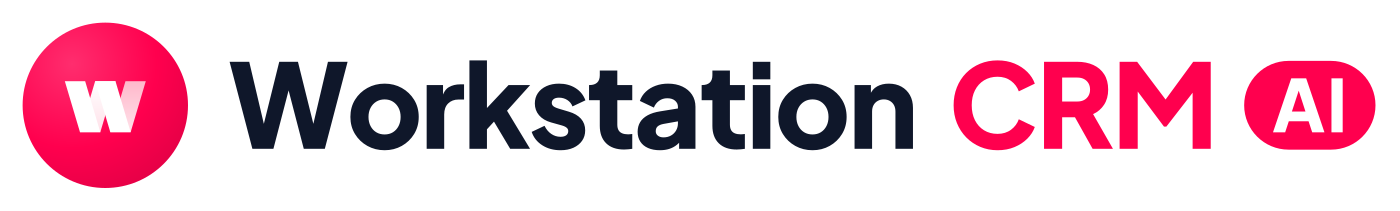
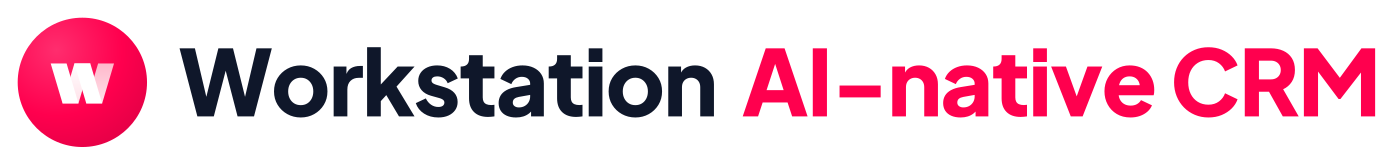
Rename to Workstation AI-native CRM
The in-app name, sign-in screen, report letterhead and sign-in emails now say "Workstation
AI-native CRM" (non-breaking hyphen in the app, so it never breaks after "AI-"). The home-screen
name stays "Workstation CRM" (new BRAND_DISPLAY_NAME; iOS shows about 12 characters). The
wordmark and lockup read "Workstation AI-native CRM" ("AI-native CRM" in the primary); the AI
badge is gone. Brand guide updated.

Changed region(s): [[0.0, 0.0909, 0.9829, 0.9091]]

diff --git a/WSLCRM/App/Brand.swift b/WSLCRM/App/Brand.swift
@@ -2,7 +2,7 @@ import Foundation
 
 /// White-label identity for this build, from `BRAND_*` build settings through Info.plist.
 ///
-/// Config/Brand-Default.xcconfig gives the house brand ("Workstation CRM" and its mark). A brand
+/// Config/Brand-Default.xcconfig gives the house brand ("Workstation AI-native CRM" and its mark). A brand
 /// xcconfig such as Config/Brand-DBS.xcconfig swaps in a customer's name, mark, app icon and the
 /// company details printed on report PDFs, without touching code.
 struct Brand: Sendable, Equatable {
@@ -12,8 +12,6 @@ struct Brand: Sendable, Equatable {
     var company: ReportCompany
     /// The accent colour set; `<name>-Fill` and `<name>-Text` sit beside it (Tone.brand).
     var accentColorName: String = "AccentColor"
-    /// A badge after the name ("AI" for Workstation CRM (AI)); white-label brands leave it out.
-    var edition: String?
 
     static let current = Brand.fromBundle()
 
@@ -29,7 +27,7 @@ struct Brand: Sendable, Equatable {
             // An unexpanded "$(BRAND_X)" means the setting was never defined for this build.
             return trimmed.isEmpty || trimmed.hasPrefix("$(") ? nil : trimmed
         }
-        let name = value("WSLBrandName") ?? "Workstation CRM"
+        let name = value("WSLBrandName") ?? "Workstation AI‑native CRM"
         return Brand(
             name: name,
             markImageName: value("WSLBrandMark"),
@@ -42,8 +40,7 @@ struct Brand: Sendable, Equatable {
                 email: value("WSLBrandEmail"),
                 companyNumber: value("WSLBrandCompanyNumber"),
                 vatNumber: value("WSLBrandVATNumber")),
-            accentColorName: value("WSLBrandAccentColor") ?? "AccentColor",
-            edition: value("WSLBrandEdition"))
+            accentColorName: value("WSLBrandAccentColor") ?? "AccentColor")
     }
 }
 

diff --git a/docs/brand/index.html b/docs/brand/index.html
@@ -3,7 +3,7 @@
 <head>
 <meta charset="utf-8">
 <meta name="viewport" content="width=device-width, initial-scale=1">
-<title>Workstation CRM Brand</title>
+<title>Workstation AI-native CRM Brand</title>
 <link rel="icon" href="logo-glyph.svg">
 <style>
   @font-face { font-family: "Plus Jakarta Sans"; src: url("fonts/PlusJakartaSans.ttf") format("truetype"); font-weight: 200 800; }
@@ -75,11 +75,11 @@
 <header class="hero">
   <div class="inner">
     <div>
-      <img class="lockup" src="lockup-on-dark.svg" alt="Workstation CRM">
+      <img class="lockup" src="lockup-on-dark.svg" alt="Workstation AI-native CRM">
       <h1>Work, <span>done.</span></h1>
       <p>Jobs, visits, boards, timesheets and property deals, from the office to the van. The phone side of OpsAPI.</p>
     </div>
-    <img class="icon" src="png/icon-1024.png" alt="Workstation CRM app icon">
+    <img class="icon" src="png/icon-1024.png" alt="Workstation AI-native CRM app icon">
   </div>
 </header>
 <main>
@@ -155,7 +155,7 @@
 <h2>Don't</h2>
 <p class="lead">Recolour the route · flip or rotate it · move the start dot · outline it or add effects · stretch the lockup · set the full-colour logo on busy photos (use the mono mark).</p>
 
-<footer>Workstation CRM brand · every file is built by <code>tools/build-brand.py</code> · Plus Jakarta Sans under the SIL Open Font License · see <code>BRAND.md</code></footer>
+<footer>Workstation AI-native CRM brand · every file is built by <code>tools/build-brand.py</code> · Plus Jakarta Sans under the SIL Open Font License · see <code>BRAND.md</code></footer>
 </main>
 </body>
 </html>

diff --git a/WSLCRM/Features/Auth/LoginView.swift b/WSLCRM/Features/Auth/LoginView.swift
@@ -83,24 +83,10 @@ struct LoginView: View {
         HStack(alignment: .top) {
             VStack(alignment: .leading, spacing: 8) {
                 BrandMark(size: 88)
-                HStack(alignment: .firstTextBaseline, spacing: 10) {
-                    Text(Brand.current.name)
-                        .font(.largeTitle.bold())
-                        .lineLimit(1)
-                        .minimumScaleFactor(0.6)
-                    if let edition = Brand.current.edition {
-                        Text(edition)
-                            .font(.title2.weight(.heavy))
-                            .padding(.horizontal, 12).padding(.vertical, 3)
-                            .foregroundStyle(.white)
-                            .background(Tone.brand.solidColor, in: Capsule())
-                            .fixedSize()
-                            .accessibilityHidden(true)
-                    }
-                }
-                .accessibilityElement(children: .combine)
-                .accessibilityLabel([Brand.current.name, Brand.current.edition].compactMap { $0 }.joined(separator: " "))
-                .accessibilityIdentifier("login.brandName")
+                Text(Brand.current.name)
+                    .font(.largeTitle.bold())
+                    .fixedSize(horizontal: false, vertical: true)
+                    .accessibilityIdentifier("login.brandName")
                 Text("Sign in to your \(Brand.current.name) account")
                     .font(.title3)
                     .foregroundStyle(.secondaryText)

diff --git a/WSLCRMTests/SimproDemoTests.swift b/WSLCRMTests/SimproDemoTests.swift
@@ -158,7 +158,7 @@ final class SimproDemoTests: XCTestCase {
     func testBrandFallsBackToHouseBrandForEmptyOrUnexpandedValues() {
         let info: [String: String] = ["WSLBrandName": "$(BRAND_NAME)", "WSLBrandMark": "  "]
         let brand = Brand.from(info: { info[$0] })
-        XCTAssertEqual(brand.name, "Workstation CRM")
+        XCTAssertEqual(brand.name, "Workstation AI‑native CRM")
         XCTAssertNil(brand.markImageName)
         XCTAssertEqual(brand.accentColorName, "AccentColor")
         XCTAssertEqual(brand.company.legalFooter, "")

diff --git a/WSLCRM/Core/Auth/AuthAPI.swift b/WSLCRM/Core/Auth/AuthAPI.swift
@@ -4,7 +4,7 @@ import Foundation
 struct AuthAPI: Sendable {
     let client: APIClient
     /// Brands the OTP email (the server default is another product's name).
-    static let appName = "Workstation CRM"
+    static let appName = "Workstation AI-native CRM"
 
     /// Step 1. Form-encoded — the server does not parse JSON on this route.
     func login(identifier: String, password: String) async throws -> LoginResponse {

diff --git a/WSLCRM/DesignSystem/Components.swift b/WSLCRM/DesignSystem/Components.swift
@@ -4,7 +4,7 @@ import UIKit
 // MARK: - Tones
 
 /// Semantic colours. Every use is paired with an icon and text, never colour alone.
-/// `brand` is the build's own accent (Workstation CRM pink, DBS blue) for primary actions.
+/// `brand` is the build's own accent (Workstation pink, DBS blue) for primary actions.
 enum Tone: Sendable {
     case brand, neutral, info, progress, success, warning, danger
 

diff --git a/docs/brand/tools/build-brand.py b/docs/brand/tools/build-brand.py
@@ -1,9 +1,9 @@
 #!/usr/bin/env python3
 # Usage: python3 docs/brand/tools/build-brand.py docs/brand   (needs fonttools; rsvg-convert for PNGs)
-"""Builds every Workstation CRM (AI) logo file from one definition of the mark.
+"""Builds every Workstation AI-native CRM logo file from one definition of the mark.
 
 The mark is the Workstation icon: a white "W" folded from one ribbon on a #FF004E disc (the
-OpsAPI primary). The wordmark is "Workstation CRM" with an "AI" badge.
+OpsAPI primary). The wordmark is "Workstation AI-native CRM".
 
 Writes the SVGs into the brand folder, PNG renders into png/, the Icon Composer layers into
 icon-layers/, and (with --app) the iOS asset catalog images.
@@ -148,38 +148,20 @@ def text_path(text, size, x, baseline, tracking=-0.02):
 CAP = font["OS/2"].sCapHeight / upm
 
 
-NAME, PRODUCT = "Workstation", "CRM"
+NAME, PRODUCT = "Workstation", "AI-native CRM"
 
 
 def name_paths(size, x, baseline, color):
-    """"Workstation" in the text colour, "CRM" in the primary, one word-space apart."""
+    """"Workstation" in the text colour, "AI-native CRM" in the primary, one word-space apart."""
     d1, w1 = text_path(NAME, size, x, baseline)
     gap = size * 0.26
     d2, w2 = text_path(PRODUCT, size, x + w1 + gap, baseline)
     return f'<path fill="{color}" d="{d1}"/><path fill="{PRIMARY}" d="{d2}"/>', w1 + gap + w2
 
 
-def ai_badge(size, x, baseline):
-    """The "AI" badge: a primary pill with white letters, sitting on the cap height."""
-    cap = CAP * size
-    letters, lw = text_path("AI", size * 0.62, 0, 0, tracking=0.02)
-    pad_x, h = size * 0.24, cap * 1.02
-    w = lw + 2 * pad_x
-    top = baseline - cap - (h - cap) / 2
-    ty = top + h / 2 + CAP * size * 0.62 / 2
-    pill = f'<rect x="{x:.1f}" y="{top:.1f}" width="{w:.1f}" height="{h:.1f}" rx="{h / 2:.1f}" fill="{PRIMARY}"/>'
-    return pill + f'<path fill="#FFFFFF" transform="translate({x + pad_x:.1f} {ty:.1f})" d="{letters}"/>', w
-
-
-def name_with_ai(size, x, baseline, color):
-    paths, width = name_paths(size, x, baseline, color)
-    badge, bw = ai_badge(size, x + width + size * 0.22, baseline)
-    return paths + badge, width + size * 0.22 + bw
-
-
 def wordmark(color, name, title):
     size = 160
-    paths, width = name_with_ai(size, 24, 24 + CAP * size, color)
+    paths, width = name_paths(size, 24, 24 + CAP * size, color)
     w, h = int(width + 48), int(CAP * size * 1.3 + 48)
     write(name, svg(title, paths, size=(w, h), view=f"0 0 {w} {h}"))
 
@@ -191,16 +173,16 @@ def lockup(color, name, title):
     cap = CAP * size
     tx = 24 + gw * scale + 44
     baseline = 24 + height / 2 + cap / 2
-    paths, width = name_with_ai(size, tx, baseline, color)
+    paths, width = name_paths(size, tx, baseline, color)
     w, h = int(tx + width + 28), int(height + 48)
     body = f'<g transform="translate(24 24) scale({scale:.5f}) translate({-gx} {-gy})">{GLYPH}</g>{paths}'
     write(name, svg(title, body, DISC_DEFS + w_defs(), size=(w, h), view=f"0 0 {w} {h}"))
 
 
-wordmark(INK, "wordmark.svg", "Workstation CRM (AI)")
-wordmark(WHITE, "wordmark-on-dark.svg", "Workstation CRM (AI)")
-lockup(INK, "lockup.svg", "Workstation CRM (AI)")
-lockup(WHITE, "lockup-on-dark.svg", "Workstation CRM (AI)")
+wordmark(INK, "wordmark.svg", "Workstation AI-native CRM")
+wordmark(WHITE, "wordmark-on-dark.svg", "Workstation AI-native CRM")
+lockup(INK, "lockup.svg", "Workstation AI-native CRM")
+lockup(WHITE, "lockup-on-dark.svg", "Workstation AI-native CRM")
 
 
 # MARK: Renders
@@ -241,4 +223,4 @@ if app_assets:
         render(B("logo-glyph-on-dark.svg"), os.path.join(mark, f"BrandMark-WSLCRM-Dark@{scale}x.png"),
                int(96 * gw / gh) * scale)
 
-print("Built the Workstation CRM brand files in", brand)
+print("Built the Workstation AI-native CRM brand files in", brand)

diff --git a/docs/brand/BRAND.md b/docs/brand/BRAND.md
@@ -1,6 +1,6 @@
-# Workstation CRM brand
+# Workstation AI-native CRM brand
 
-**Workstation CRM runs the work: jobs, visits, boards, timesheets and property deals, from the
+**Workstation AI-native CRM runs the work: jobs, visits, boards, timesheets and property deals, from the
 office to the van.** It is the phone and tablet side of OpsAPI, so it shares OpsAPI's colours
 and type, and adds a mark and a style of its own.
 
@@ -8,10 +8,12 @@ Open `index.html` for the visual guide.
 
 ## Name
 
-- Write **Workstation CRM**: "Workstation" as one word, "CRM" in capitals.
-  Not "WorkStation", "Workstation crm" or "WSL CRM".
+- Write **Workstation AI-native CRM**: "Workstation" as one word, "AI-native" with a hyphen and a
+  capital AI, "CRM" in capitals. In app text, use a non-breaking hyphen (U+2011) so a line never
+  breaks after "AI-".
+- Under the iOS home-screen icon the name is **Workstation CRM** (iOS shows about 12 characters).
 - **WSLCRM** is the code name (bundle, scheme, repo). People never see it in the app.
-- In the wordmark, "Workstation" is ink (white on dark) and "CRM" is the primary pink.
+- In the wordmark, "Workstation" is ink (white on dark) and "AI-native CRM" is the primary pink.
 
 ## Tagline
 
@@ -36,9 +38,7 @@ The two up-strokes sit behind the down-strokes and are shaded, so the W reads as
 at each point; the last stroke fades towards the top. On the iOS home screen the disc becomes
 the full-bleed square (iOS rounds the corners), with the W a little larger.
 
-**The logo** is the round mark with the wordmark **Workstation CRM** and an **AI** badge: a primary
-pill with white letters, read as "Workstation CRM (AI)". Write the product as *Workstation CRM*
-in running text; the badge marks the AI-assisted edition (the Property PA).
+**The logo** is the round mark with the wordmark **Workstation AI-native CRM**.
 
 - **Clear space:** a quarter of the disc's diameter on every side.
 - **Minimum size:** the mark is 16 px tall on screen; the lockup is 140 px wide.
